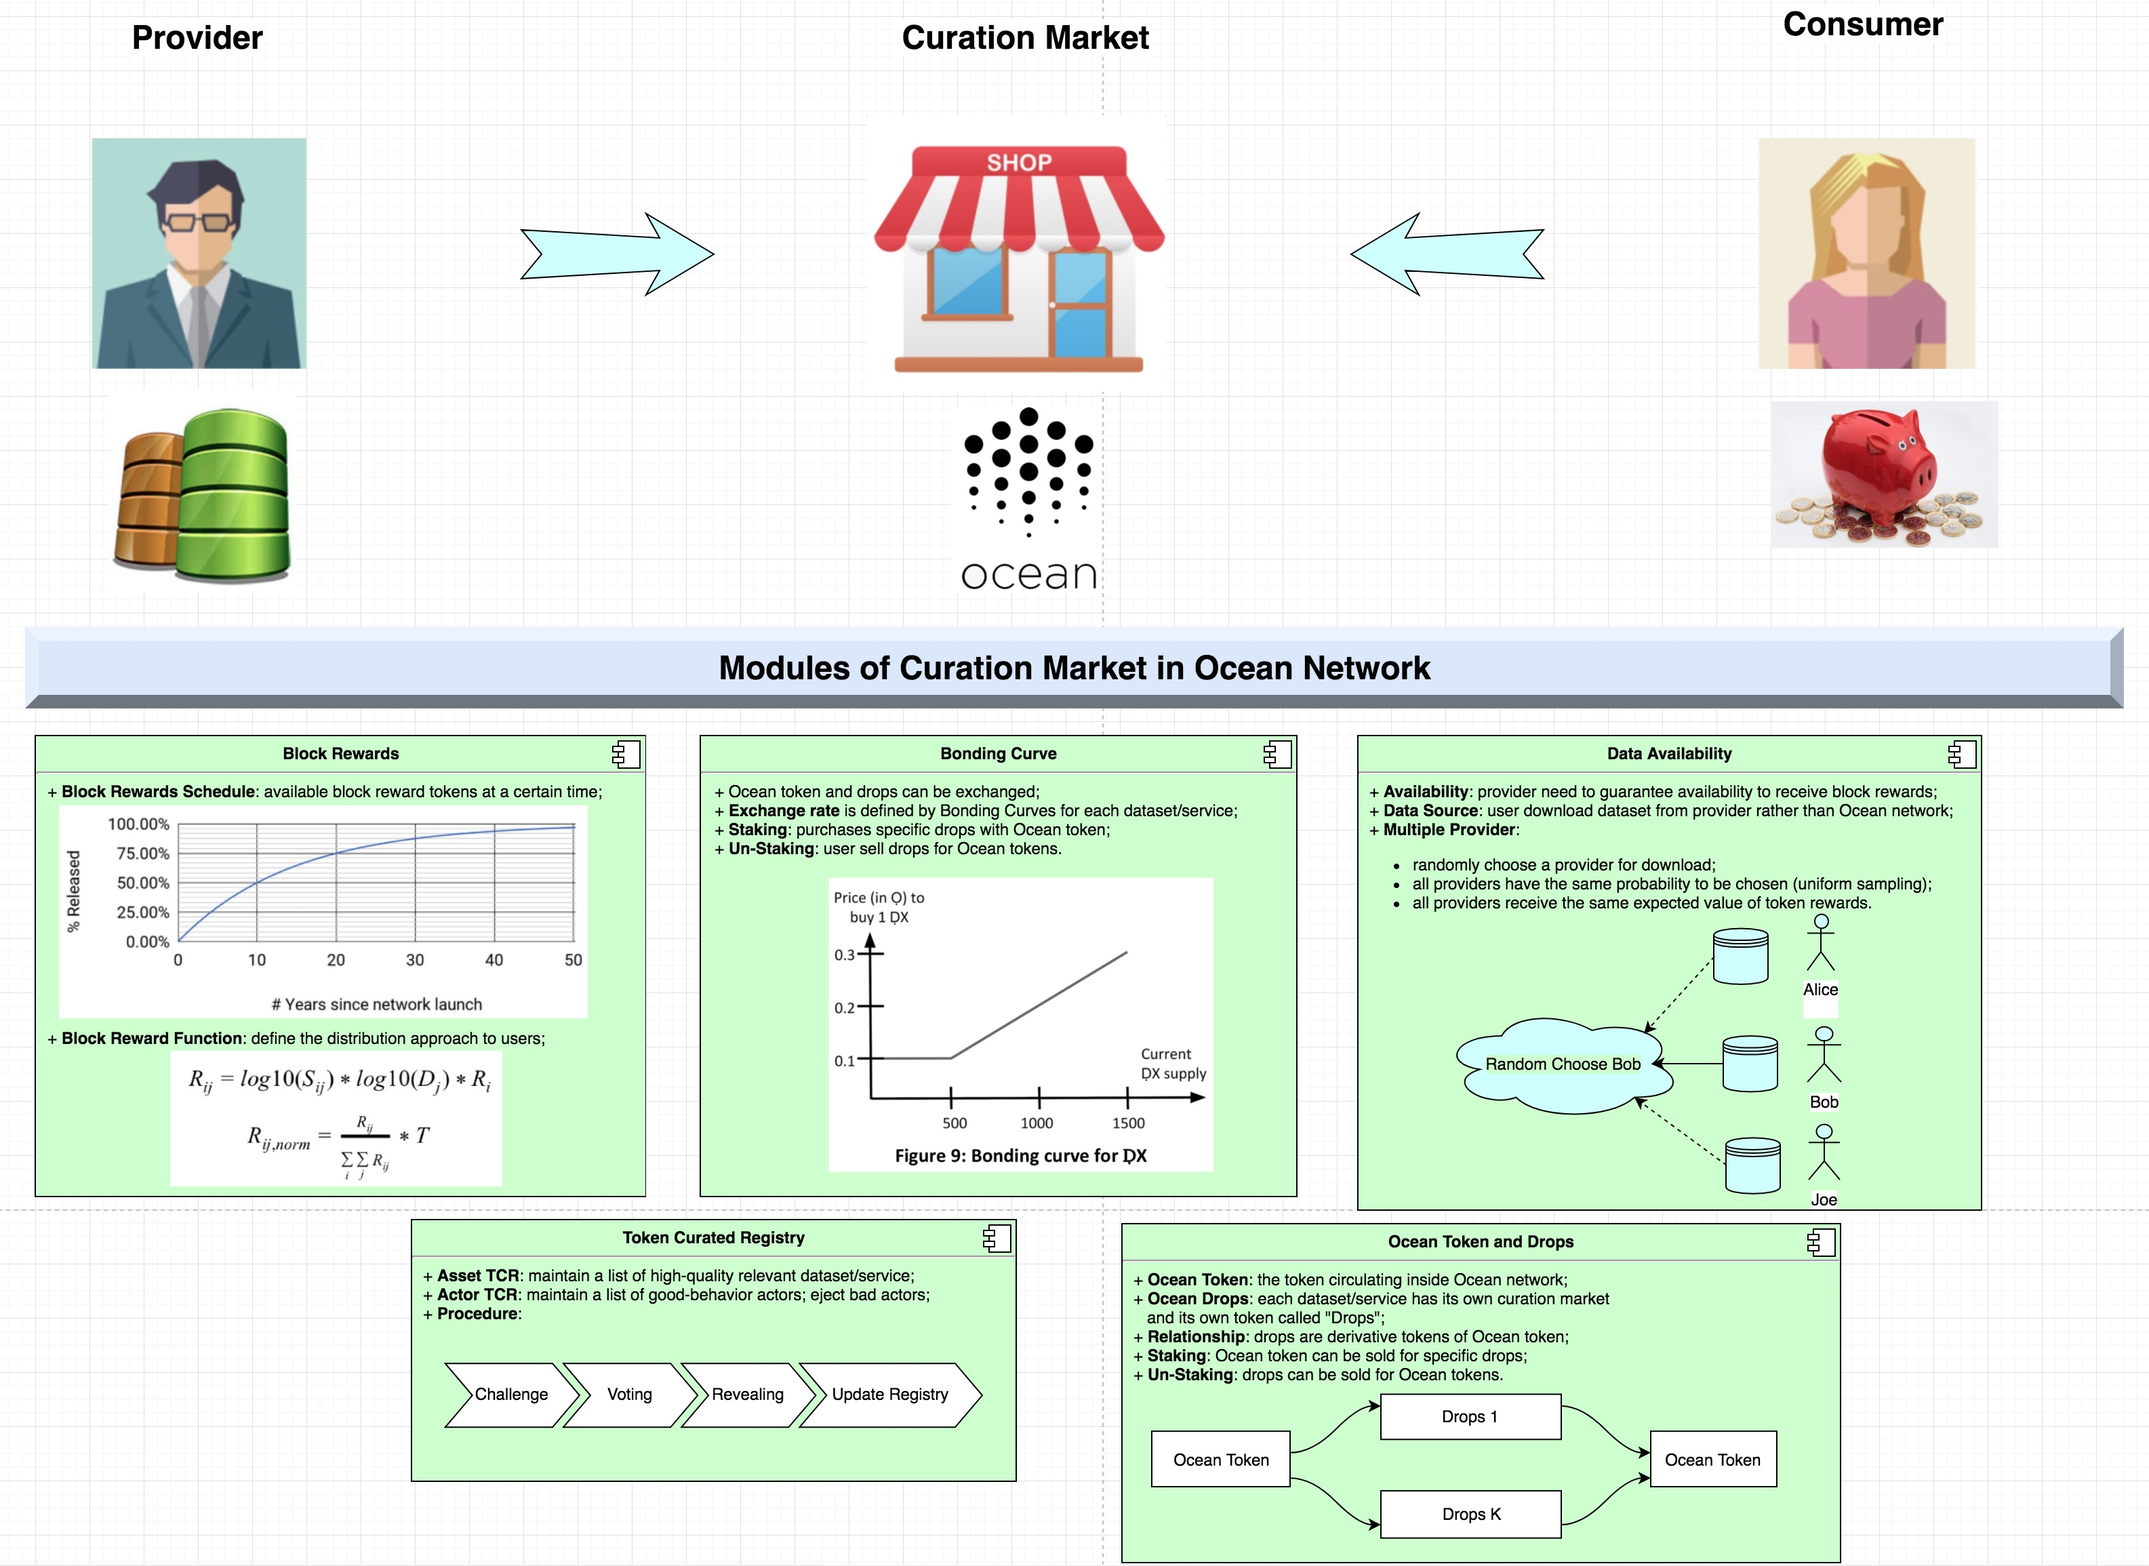
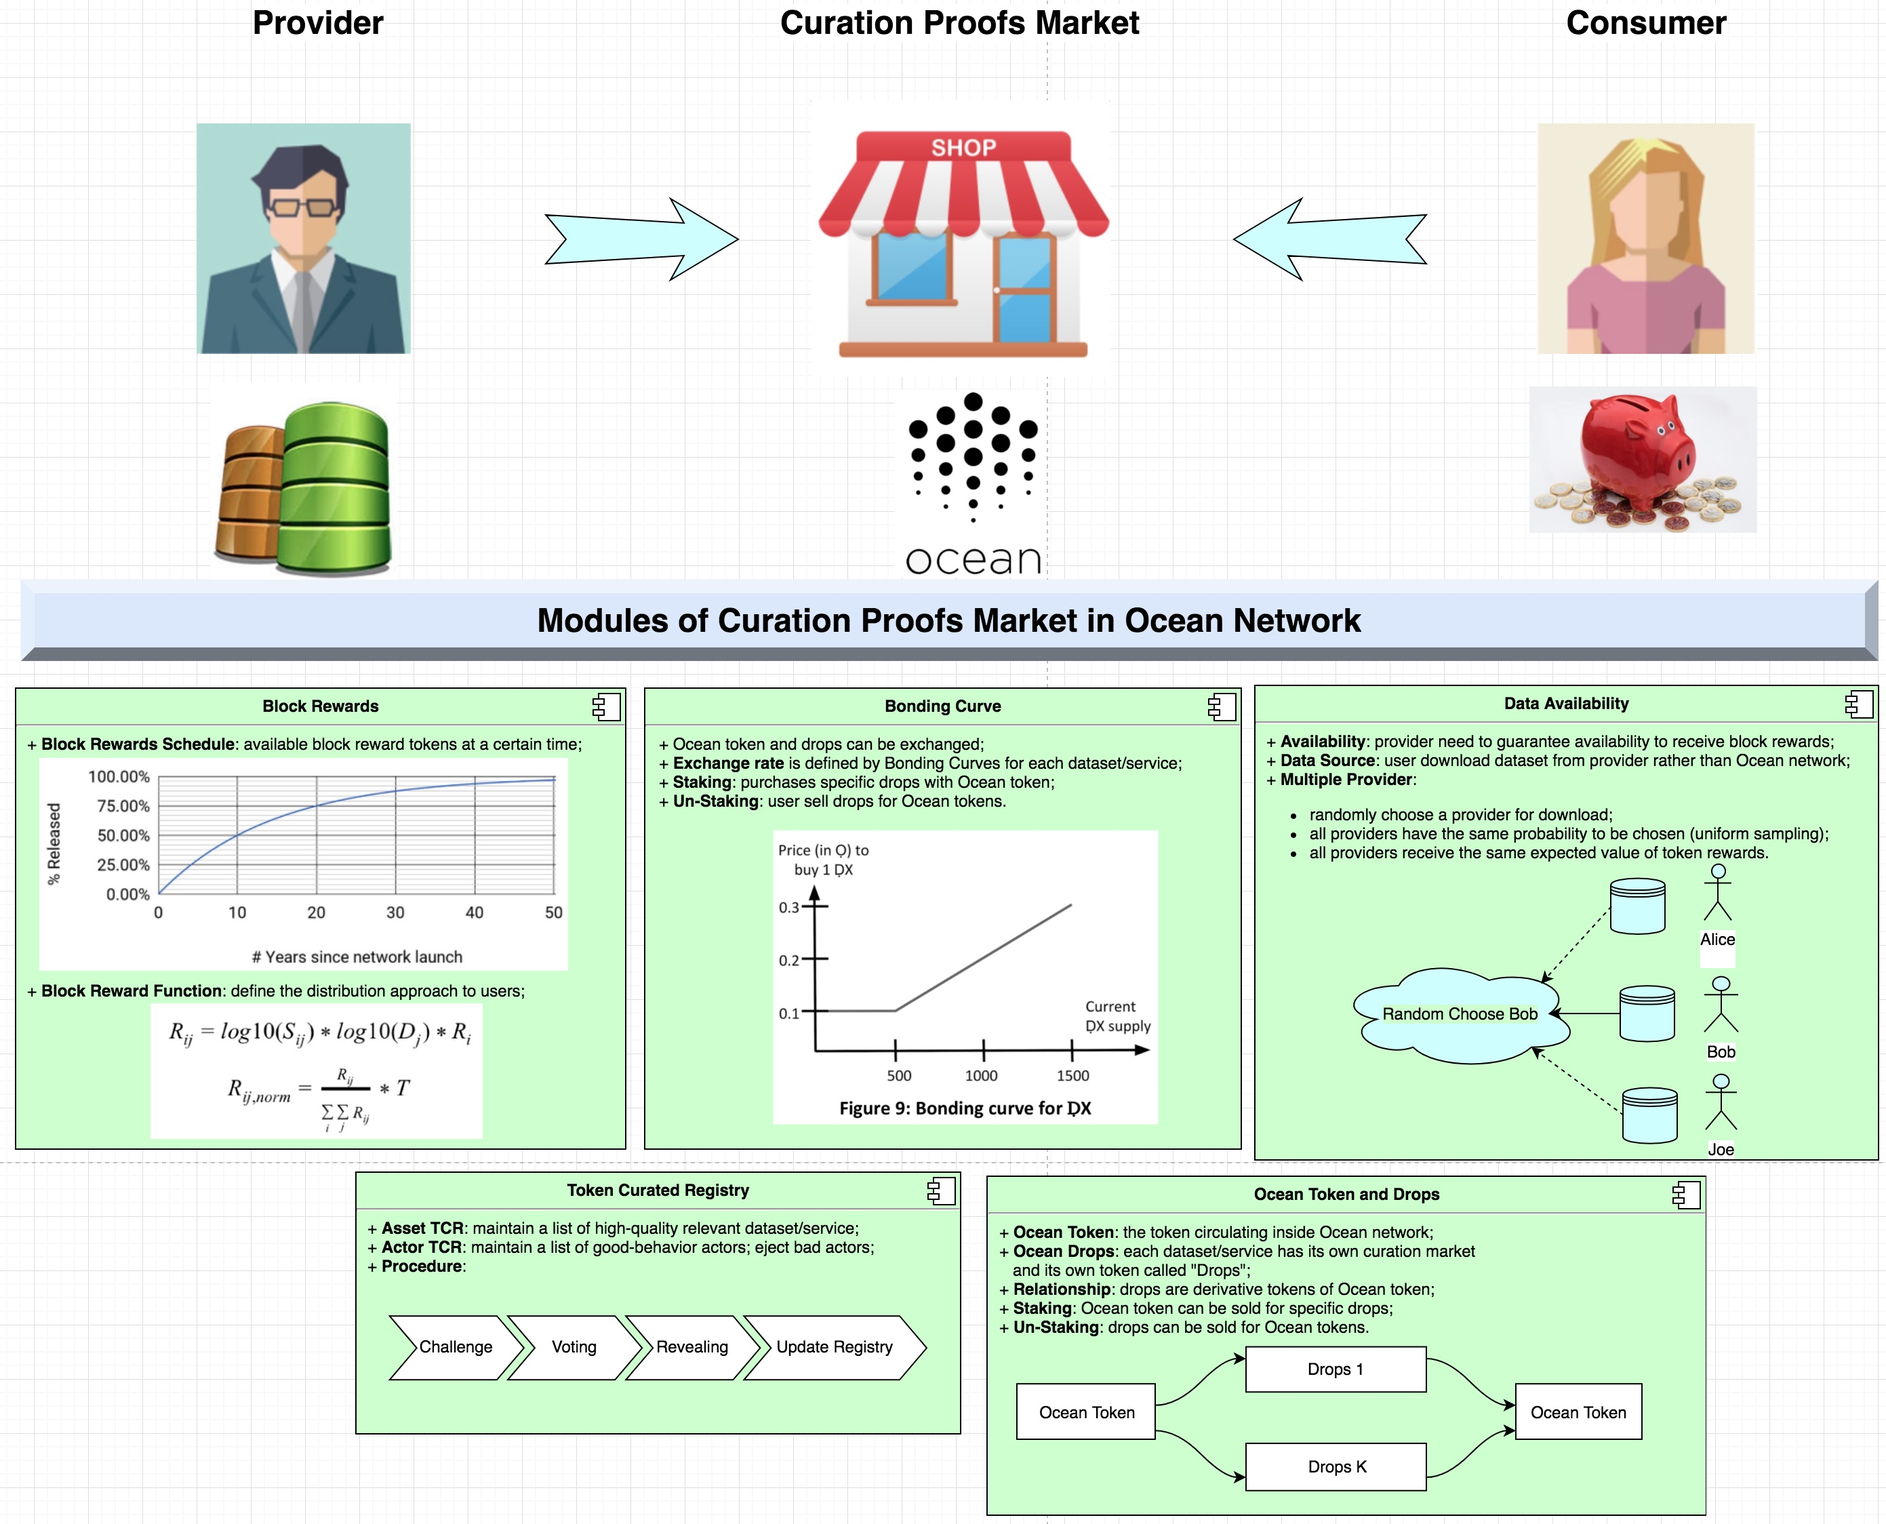
update with Trent's comment

diff --git a/11/archive/README.md.v1.0.md b/11/archive/README.md.v1.0.md
@@ -1,6 +1,6 @@
 ```
-shortname: 11/CPM
-name: Ocean Curation Proofs Market
+shortname: 11/MKT
+name: Ocean Curation Market
 type: Standard
 status: Raw
 editor: Fang Gong <fang@oceanprotocol.com>
@@ -26,7 +26,7 @@ Table of Contents
 # Ocean Curation <span style="color:red">Proofs</span> Market <a name="ocean-curation-market"></a>
 
 
-The Ocean Curation Proofs Market is a critical cornerstone of Ocean Protocol. This document bridges the theory in technical whitepaper[1] and the smart contract implementation in practice. 
+The Ocean Curation Market is a critical cornerstone of Ocean Protocol. This document bridges the theory in technical whitepaper[1] and the smart contract implementation in practice. 
 
 The proposed solutions are based on Ocean Protocol technical whitepaper [1], Trent's talk [2] & blog [3], [3/ARCH](../3/README.md) and [4/KEEPER](../4/README.md).
 
@@ -39,23 +39,27 @@ The key words "MUST", "MUST NOT", "REQUIRED", "SHALL", "SHALL NOT", "SHOULD", "S
 
 ## 3. Motivation <a name="motivation"></a>
 
-Ocean network aims to build a marketplace for relevant AI-related data. Curation proofs market coordinates participants to maintain high-quality assets (mainly datasets) and the normal operations of marketplace, which is a fundamental component of Ocean Network. 
+Ocean network aims to build a marketplace for relevant AI-related data. Curation market coordinates participants to maintain high-quality assets (mainly datasets) and the normal operations of marketplace, which is a fundamental component of Ocean Network. 
 
-## 4. Architecture Overview<a name="architecture"></a>
+<!--
+The key components include:
 
-The architecture of curation proofs market is illustrated in the below, which includes five essential modules. 
+* **Block Rewards**: Ocean network generates block rewards to incentivize users who bet on dataset with stakes and ensure the data availability when requested. 
+* **Bonding Curve**: Curation market dynamically adjusts the stake cost (i.e., drops price of dataset) using bonding curve, therefore, encouraging earlier curations of dataset with lower staking cost. 
+* **TCR**: Curation market uses Token Curation Registry (TCR) to maintain high-quality dataset and eject bad actors with malicious behavior. 
+-->
+
+## 4. Architecture <a name="architecture"></a>
+
+The architecture of curation market is illustrated in the below, which includes five essential modules. 
 
 ![modular architecture](img/curation_market_overview.jpg)
 
-* **Block Rewards**: Ocean network emits Ocean tokens continuously to incentivize providers according to the pre-defined schedule, which are called "block rewards". The distributed amount of block rewards SHOULD be determined by following factors: 
+* **Block Rewards**: Ocean network emits Ocean tokens continuously to incentivize providers according to the pre-defined schedule, which are called "block rewards". The distributed amount of block rewards SHOULD be determined by two factors: 
 	* *Predicted popularity*: number of provider's stake on the dataset;
-	* *Proofed popularity*: number of times made dataset available;
-	* <span style="color:red">*dispensed tokens*： the emitted Ocean tokens based on mining schedule;</span>
-	* <span style="color:red">*ratio of download and uploads*: aims to mitigate the "Sybil downloading" attack [1].</span>
+	* *Proofed popularity*: number of times made dataset available.
 	
-* **Ocean Token and Drops**: 
-	* <span style="color:red">Ocean network creates a *dedicated* curation proofs market for each dataset.</span>
-	* <span style="color:red">Derivative tokens of Ocean Tokens are produced for each market, which is called "**drops** of curation proofs market for one dataset".  </span>
+* **Ocean Token and Drops**: Ocean network creates derivative tokens of Ocean Token for each curation market, which is called "**drops**". 
 	* Providers purchase drops with their Ocean tokens to stake on the asset.
 	* Providers can un-stake by selling their drops for Ocean tokens and realize the profit.
  
@@ -67,13 +71,13 @@ The architecture of curation proofs market is illustrated in the below, which in
 * **Data Availability**: To earn block rewards, providers MUST make assets available when requested. 
 	* It is desired to have multiple providers for the same asset so that to guarantee data availability. 
 	* When an asset is requested, one provider SHOULD be randomly chosen to transfer the asset. 
-	* All providers MUST have the same probability to be chosen regardless of their stakes on the dataset.
+	* All providers MUST have the same probability to be chosen.
 	* They SHOULD receive equal block rewards if they have the same stakes.  
 
 
-* **Token Curation Registry (TCR)**: TCR is a powerful mechanism to maintain the high quality of the asset in the curation proofs market. 
+* **Token Curation Registry (TCR)**: TCR is a powerful mechanism to maintain the high quality of the asset in the curation market. 
 	* Everyone can challenge any asset or user, which triggers a voting process. 
-	* Participants in the curation proofs market can vote according to their own opinions. 
+	* Participants in the curation market can vote according to their own opinions. 
 	* Depends on the voting result, the asset or actor will be either kept in the marketplace or ejected from the system. 
 
 
@@ -100,55 +104,31 @@ The block reward function determines the amount of block reward that providers e
 
 **(3) Practical Implementation of Block Reward Distribution**
 
-Ocean network SHOULD NOT reward providers at fixed time intervals, which has high complexity and expensive computational cost. Simply imagine the complexity to transfer Ocean block rewards to each provider through token-transfer transactions. 
+Ocean network SHOULD NOT reward providers at fixed time intervals, which has high complexity and expensive computational cost. Simply imagine the complexity to transfer Ocean block rewards to each provider through token-transfer transactions.  
 
-To resolve the complexity issue, we adopt the following 2-stage implementation as describe in [1]:
+The practical strategy to distribute block rewards is [following](diagrams/block-reward-distribution-sequence.md):
 
-* <span style="color:red">**Whether this provider should be rewarded?** In Ocean network, every time a dataset is requested, a provider will be randomly chosen to deliver the dataset. At this time, Ocean network calculates a probability whether to give block rewards to this provider. The probability is proportional to value added by the provider, compared to the network difficulty. </span>
-
-	<img src="img/reward_prob.jpg" width="700" />
-
-* <span style="color:red">**What is the reward amount if provider will be rewarded?** If Ocean network chooses to reward this provider, Ocean network calculates the reward amount based on value added by this provider and the total network value added. In other words, all dataset providers split the block rewards according to their contributions of adding value to the network in the difficulty interval.</span>
-	* *R*<sub vertical-align: sub; font-size: small>ij</sub> is the value added by the provider;
-	* *F* is the reward amount to this provider;
-	* *T*<sub vertical-align: sub; font-size: small>difficulty</sub> is the total Ocean Token reward emitted during the two week difficulty period.
-
-<div style="text-align:center"><img src="img/reward_formula.jpg" width="200" /></div> 
-
-
-
-To be more clear, the practical 2-stage strategy to distribute block rewards is following:
-
-* <span style="color:red">*Stage 1: Marketplace decides whether to reward this provider*:
-	* <span style="color:red">The value added by the provider is calculated as *R*<sub vertical-align: sub; font-size: small>ij</sub>;
-	* <span style="color:red">Compute the ratio of *R*<sub vertical-align: sub; font-size: small>ij</sub> and *R*<sub vertical-align: sub; font-size: small>difficulty</sub>;
-	* <span style="color:red">AGENT client generates a uniform-distributed random number between [0, 1] and pass it to Marketplace;
-	* <span style="color:red">Marketplace decides whether to reward this provider.
-
-<img src="img/reward_prob_sequence.jpg" width="600" />
-
-
-* <span style="color:red">*Stage 2: Marketplace distributes rewards to provider*:
-	* Marketplace requests block rewards from token contract;
-	* Token contract MUST release block rewards according to schedule and transfers tokens to marketplace;
-	* Marketplace SHOULD calculate the block reward distribution to current provider with formula;
-	* It SHOULD increase the balance of provider accordingly without token transfer which avoids the cost of token-transfer transactions;
-	* Marketplace only transfer tokens to provider's account upon the withdraw-token request.
 <img src="img/reward_seq.jpg" width="700" />
 
 
+* Every time a provider delivers dataset to a consumer, marketplace SHOULD distribute block rewards;
+* Marketplace requests block rewards from token contract;
+* Token contract MUST release block rewards according to schedule and transfers tokens to marketplace;
+* Marketplace SHOULD calculate the block reward distribution to current provider with formula;
+* It SHOULD increase the balance of provider accordingly without token transfer which avoids the cost of token-transfer transactions;
+* Marketplace only transfer tokens to provider's account upon the withdraw-token request.
 
-When Ocean network distributes the block rewards, **"lazy transfer"** strategy is used to significantly reduce the transaction cost:
+Noted that **"lazy transfer"** strategy is used to significantly reduce the transaction cost:
 
-* The curation proofs market serves as a escrow account and holds the block rewards for providers. 
-* It maintains the correct balance for each provider. 
-* When the provider requests to withdraw Ocean tokens, curation proofs market transfer tokens to provider which SHOULD match the balance amount.
-* Curation proofs market avoids frequent token transfer to providers and saves transaction cost. 
+* The curation market serves as a escrow account and holds the block rewards for providers. 
+* It maintains the correct balance record for each provider. 
+* When the provider requests to withdraw Ocean tokens, curation market transfer tokens to provider which SHOULD match the balance amount.
+* Curation market avoids frequent token transfer to providers and saves transaction cost. 
 
 
 **(4) Smart Contract Interface Functions**
 
-The curation proofs market smart contract SHOULD include data structure to keep the records of providers and balances for each asset:
+The curation market smart contract SHOULD include data structure to keep the records of providers and balances for each asset:
 
 ```solidity
 // Asset struct has an array of providers Id
@@ -186,7 +166,7 @@ The contract SHOULD expose the following public methods:
 
 ### 5.2 Ocean Token and Drops
 
-Each asset creates its own curation proofs market in Ocean network and needs its native tokens, which is called "drops". In fact, drops are *derivative tokens* of Ocean Tokens which means drops can be exchanged from/to Ocean Tokens. 
+Each asset creates its own curation market in Ocean network and needs its native tokens, which is called "drops". In fact, drops are *derivative tokens* of Ocean Tokens which means drops can be exchanged from/to Ocean Tokens. 
 
 As shown in the figure: 
 
@@ -196,7 +176,7 @@ As shown in the figure:
 <img src="img/drops.jpg" width="600" />
 
 
-Curation proofs market smart contract SHOULD record the drops balance for each provider. 
+Curation market smart contract SHOULD record the drops balance for each provider. 
 
 ```solidity
 // Asset struct can map provider id to his drops balance
@@ -216,7 +196,7 @@ To implement the exchange between Ocean tokens and Drops, we adopt the **2-Way p
 * To sell Drops, the Drops get locked again and the Ocean tokens with the same value are unlocked.
 * Both procedures are handled by smart contract to ensure the security.
 
-In the practical implementation, curation proofs market smart contract MUST execute following operations:
+In the practical implementation, curation market smart contract MUST execute following operations:
 
 * Lock the Ocean tokens that are used to purchases drops;
 * Reduce user's balance of Ocean token by the same amount;
@@ -254,7 +234,7 @@ Clearly, the price of drops depends on the total supply:
 * More users buy drops and total supply increases => drops price shoots up;
 * More users sell drops and total supply decreases => drops price plummets;
 
-Curation proofs market smart contract SHOULD have bonding curve function as:
+Curation market smart contract SHOULD have bonding curve function as:
 
 ```solidity
 struct Asset {
@@ -278,7 +258,7 @@ Since all providers have the same probability to be chosen, they SHOULD receive 
 
 Note that *random number generator is not available* in Ethereum Virtual Machine, as the code will be ran on multiple nodes, on different time. It does not make sense to generate different random numbers on different nodes at different time in Ethereum network. 
 
-Instead, the AGENT client SHOULD randomly choose a provider to request the dataset. The curation proofs market smart contract only need to log the provider, who transfers the dataset to consumer, and increment the counter of dataset download times.
+Instead, the AGENT client SHOULD randomly choose a provider to request the dataset. The curation market smart contract only need to log the provider, who transfers the dataset to consumer, and increment the counter of dataset download times.
 
 ```solidity
 // Asset has provider list and their corresponding download times 
@@ -305,7 +285,7 @@ function updateDownload(uint _assetId, uint _providerId) public returns (bool su
 
 ### 5.5 Token Curation Registry
 
-Curation proofs market coordinates the community to maintain the high-quality data together and Token Curation Registry (TCR) is used for that purpose in Ocean network:
+Curation market coordinates the community to maintain the high-quality data together and Token Curation Registry (TCR) is used for that purpose in Ocean network:
 
 <img src="img/TCR.jpg" width="600" />
 
@@ -316,9 +296,9 @@ The [workflow of TCR](diagrams/tcr-workflow.md) can be illustrated as below:
 
 * Any user can apply for adding new asset or challenge existing assets or actors;
 * All participants can vote to support or against the asset or actor;
-* Curation proofs market reveals the result after the voting period is closed;
+* Curation market reveals the result after the voting period is closed;
 * The majority party win the voting and rewards;
-* Curation proofs market keep or eject the asset or actor according to the voting result.
+* Curation market keep or eject the asset or actor according to the voting result.
 
 
 Smart contract SHOULD have data struct and interface functions to implement TCR in Ocean network:

diff --git a/11/diagrams/block-reward-stage1.md b/11/diagrams/block-reward-stage1.md
@@ -1,0 +1,14 @@
+# Open on: https://www.websequencediagrams.com/
+
+title Block Reward Distribution Sequence
+
+marketplace->token_contract: (1) query block rewards
+token_contract->token_contract: (2) calculate num of released token
+note right of token_contract: token release schedule formula
+token_contract->marketplace: (3) transfer released token
+
+marketplace->marketplace: (4) calculate block reward distribution
+note left of marketplace: block reward distribution formula
+marketplace->marketplace: (5) increase provider's token balance without transfer
+
+marketplace->provider: (6) transfer tokens upon provider's request
